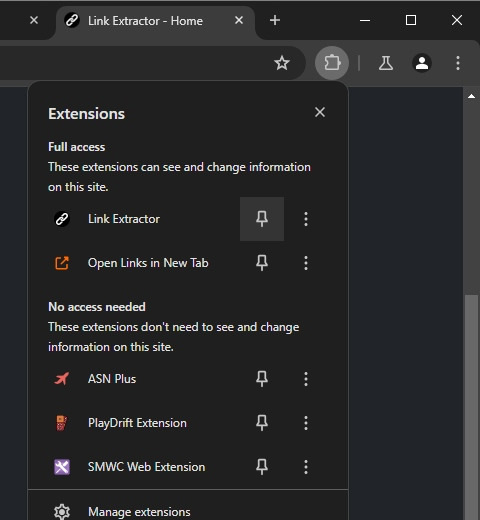
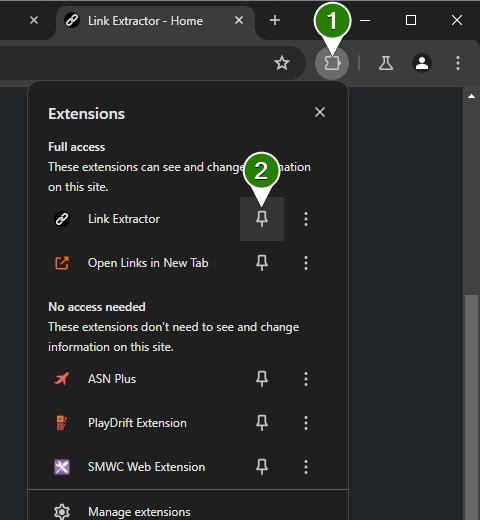
Add Discord Links (#21)
* Add Discord Links

* Add Flex Footer

* Mix Wording

* Update README.md

* Update Pin Images

diff --git a/src/_layouts/default.html b/src/_layouts/default.html
@@ -59,6 +59,8 @@
                             Screen Shots <i class="fa-solid fa-arrow-up-right-from-square"></i></a></li>
                     <li class="nav-item"><a class="nav-link" href="{{ site.github_url }}" target="_blank" rel="noopener">
                             GitHub <i class="fa-solid fa-arrow-up-right-from-square"></i></a></li>
+                    <li class="nav-item"><a class="nav-link" href="{{ site.discord_invite }}" target="_blank" rel="noopener">
+                            Discord <i class="fa-solid fa-arrow-up-right-from-square"></i></a></li>
                 </ul>
             </div>
         </div>
@@ -72,25 +74,30 @@
 
 <footer class="footer mt-auto px-1 flex-shrink-0">
     <div class="container-fluid">
-        <div class="row">
-            <div class="col-12 col-sm-5 py-2">
+        <div class="d-flex flex-column flex-sm-row py-2">
+            <div class="me-sm-auto">
                 <a class="link-body-emphasis text-decoration-none" href="{{ site.github_url }}" target="_blank" rel="noopener">
                     <i class="fab fa-github"></i> {{ site.site_name }}</a>
             </div>
-            <div class="col-12 col-sm-7 py-2 text-sm-end">
+            <div class="ms-sm-auto">
                 <nav aria-label="Secondary Navigation">
                     <ol class="list-inline mb-1">
                         <li class="list-inline-item">
                             <a class="link-body-emphasis text-decoration-none {% if page.title == 'Home' %}fw-bold{% endif %}" href="{{ "/" | relative_url }}">
-                                Home</a></li>
-                        {% comment %}<li class="list-inline-item">|</li>{% endcomment %}
+                                Home</a>
+                        </li>
                         <li class="list-inline-item">
                             <a class="link-body-emphasis text-decoration-none {% if page.title == 'Docs' %}fw-bold{% endif %}" href="{{ "/docs/" | relative_url }}">
-                                Docs</a></li>
-                        {% comment %}<li class="list-inline-item">|</li>{% endcomment %}
+                                Docs</a>
+                        </li>
                         <li class="list-inline-item">
                             <a class="link-body-emphasis text-decoration-none" href="{{ "/screenshots/" | relative_url }}" target="_blank">
-                                Screen Shots <i class="fa-solid fa-arrow-up-right-from-square"></i></a></li>
+                                Screen Shots <i class="fa-solid fa-arrow-up-right-from-square"></i></a>
+                        </li>
+                        <li class="list-inline-item">
+                            <a class="link-body-emphasis text-decoration-none" href="{{ site.discord_invite }}" target="_blank">
+                                Discord <i class="fa-solid fa-arrow-up-right-from-square"></i></a>
+                        </li>
                     </ol>
                 </nav>
             </div>

diff --git a/src/html/docs.html b/src/html/docs.html
@@ -11,9 +11,12 @@ description: Documentation and Instructions for configuring and using Link Extra
 
 <div id="feedback" class="alert alert-success d-none" role="alert">
     <p>Thank you for providing feedback. If you provided details we will look into them.</p>
-    <p class="mb-0">
+    <p>
         If you would like feedback from the developer you can open an
         <a href="{{ site.github_url }}/issues" class="alert-link" target="_blank" rel="noopener">Issue</a> on GitHub.
+    </p>
+    <p class="mb-0">
+        You may also request support and get help on the <a href="{{ site.discord_invite }}" class="alert-link" target="_blank" rel="noopener">Discord Server</a>.
     </p>
 </div>
 
@@ -30,8 +33,8 @@ description: Documentation and Instructions for configuring and using Link Extra
 </ul>
 
 <div class="mb-3">
-    <img src="{{ "/media/images/chrome-pin.jpg" | relative_url }}" class="img-thumbnail" alt="Chrome Pin Extension" width="360">
     <img src="{{ "/media/images/firefox-pin.jpg" | relative_url }}" class="img-thumbnail" alt="Chrome Pin Extension" width="360">
+    <img src="{{ "/media/images/chrome-pin.jpg" | relative_url }}" class="img-thumbnail" alt="Chrome Pin Extension" width="360">
 </div>
 
 <h4>Host Permissions</h4>
@@ -182,7 +185,7 @@ description: Documentation and Instructions for configuring and using Link Extra
 </p>
 
 <p class="mt-5">
-    For more information you can view
+    For more information you can view the
     <a href="{{ site.github_url }}?tab=readme-ov-file#readme" target="_blank" rel="noopener">README.md</a> on GitHub.
 </p>
 

diff --git a/src/html/uninstall.html b/src/html/uninstall.html
@@ -17,8 +17,13 @@ description: Uninstall Feedback.
                 </div>
                 <p class="text-center">
                     Please let us know why you uninstalled {{ site.site_name }}.
-                    All <a href="{{ site.github_url }}/issues" target="_blank" rel="noopener">bugs that get reported</a> will be fixed!
-                    <a href="{{ site.github_url }}/discussions/categories/feature-requests" target="_blank" rel="noopener">Feature Requests</a> are also greatly appreciated...
+                    <br>
+                    <span class="fs-4">
+                        All <a href="{{ site.github_url }}/issues" target="_blank" rel="noopener">bugs that get reported</a> <b>will be fixed!</b>
+                    </span>
+                    <br>
+                    Any <a href="{{ site.github_url }}/discussions/categories/feature-requests" target="_blank" rel="noopener">Feature Requests</a> are appreciated.
+                    Support is also available on <a href="{{ site.discord_invite }}" target="_blank" rel="noopener">Discord</a>.
                 </p>
                 {% include alerts.html %}
                 <form id="uninstall-form">

diff --git a/src/html/index.html b/src/html/index.html
@@ -22,6 +22,8 @@ description: Easily extract, parse, or open all links/domains from a site or tex
         <img src="https://img.shields.io/amo/v/{{ site.firefox_id }}?label=firefox&logo=firefox" alt="Mozilla Add-on Version" style="max-width: 100%;"></a>
     <a href="{{ site.github_url }}/releases/latest" title="GitHub" target="_blank" rel="noopener">
         <img src="https://img.shields.io/github/v/release/{{ site.github_name }}?logo=github" alt="GitHub Release Version" style="max-width: 100%;"></a>
+    <a href="{{ site.discord_invite }}" title="GitHub" target="_blank" rel="noopener">
+        <img src="https://img.shields.io/discord/899171661457293343?logo=discord&logoColor=white&label=discord&color=7289da" alt="Join Discord" style="max-width: 100%;"></a>
 </div>
 
 <p class="lead">

diff --git a/README.md b/README.md
@@ -6,28 +6,29 @@
 [![Mozilla Add-on Version](https://img.shields.io/amo/v/link-extractor?label=firefox&logo=firefox)](https://addons.mozilla.org/addon/link-extractor)
 [![GitHub Release Version](https://img.shields.io/github/v/release/cssnr/link-extractor?logo=github)](https://github.com/cssnr/link-extractor/releases/latest)
 [![Pages](https://github.com/cssnr/link-extractor.cssnr.com/actions/workflows/build.yaml/badge.svg)](https://github.com/cssnr/link-extractor.cssnr.com/actions/workflows/build.yaml)
+[![Discord](https://img.shields.io/discord/899171661457293343?logo=discord&logoColor=white&label=discord&color=7289da)](https://discord.gg/wXy6m2X8wY)
 # Link Extractor Site
 
-*   Website: https://link-extractor.cssnr.com
-*   Github: https://github.com/cssnr/link-extractor
+* Website: https://link-extractor.cssnr.com
+* Github: https://github.com/cssnr/link-extractor
+* Discord: https://discord.gg/wXy6m2X8wY
 
 # Install
 
 *   [Google Chrome Web Store](https://chrome.google.com/webstore/detail/link-extractor/ifefifghpkllfibejafbakmflidjcjfp)
 *   [Mozilla Firefox Add-ons](https://addons.mozilla.org/addon/link-extractor)
 
-<a href="https://chrome.google.com/webstore/detail/link-extractor/ifefifghpkllfibejafbakmflidjcjfp" target="_blank">
-    <img alt="Chrome" src="https://raw.githubusercontent.com/raivo-otp/issuer-icons/master/vectors/google.com/google-chrome.svg" width="42" height="42" /></a>
-<a href="https://addons.mozilla.org/addon/link-extractor" target="_blank">
-    <img alt="Firefox" src="https://raw.githubusercontent.com/raivo-otp/issuer-icons/master/vectors/firefox.com/firefox.svg" width="42" height="42" /></a>
-<a href="https://chrome.google.com/webstore/detail/link-extractor/ifefifghpkllfibejafbakmflidjcjfp" target="_blank">
-    <img alt="Edge" src="https://raw.githubusercontent.com/raivo-otp/issuer-icons/master/vectors/microsoft.com/microsoft-edge.svg" width="42" height="42" /></a>
-<a href="https://chrome.google.com/webstore/detail/link-extractor/ifefifghpkllfibejafbakmflidjcjfp" target="_blank">
-    <img alt="Opera" src="https://raw.githubusercontent.com/raivo-otp/issuer-icons/master/vectors/opera.com/opera.svg" width="42" height="42" /></a>
-<a href="https://chrome.google.com/webstore/detail/link-extractor/ifefifghpkllfibejafbakmflidjcjfp" target="_blank">
-    <img alt="Brave" src="https://raw.githubusercontent.com/raivo-otp/issuer-icons/master/vectors/brave.com/brave.svg" width="42" height="42" /></a>
-<a href="https://chrome.google.com/webstore/detail/link-extractor/ifefifghpkllfibejafbakmflidjcjfp" target="_blank">
-    <img alt="Vivaldi" src="https://raw.githubusercontent.com/raivo-otp/issuer-icons/master/vectors/vivaldi.com/vivaldi.svg" width="42" height="42" /></a>
+[![Chrome](https://raw.githubusercontent.com/smashedr/logo-icons/master/browsers/chrome_48.png)](https://chromewebstore.google.com/detail/link-extractor/ifefifghpkllfibejafbakmflidjcjfp)
+[![Firefox](https://raw.githubusercontent.com/smashedr/logo-icons/master/browsers/firefox_48.png)](https://addons.mozilla.org/addon/link-extractor)
+[![Edge](https://raw.githubusercontent.com/smashedr/logo-icons/master/browsers/edge_48.png)](https://chromewebstore.google.com/detail/link-extractor/ifefifghpkllfibejafbakmflidjcjfp)
+[![Brave](https://raw.githubusercontent.com/smashedr/logo-icons/master/browsers/brave_48.png)](https://chromewebstore.google.com/detail/link-extractor/ifefifghpkllfibejafbakmflidjcjfp)
+[![Opera](https://raw.githubusercontent.com/smashedr/logo-icons/master/browsers/opera_48.png)](https://chromewebstore.google.com/detail/link-extractor/ifefifghpkllfibejafbakmflidjcjfp)
+[![Chromium](https://raw.githubusercontent.com/smashedr/logo-icons/master/browsers/chromium_48.png)](https://chromewebstore.google.com/detail/link-extractor/ifefifghpkllfibejafbakmflidjcjfp)
+[![Yandex](https://raw.githubusercontent.com/smashedr/logo-icons/master/browsers/yandex_48.png)](https://chromewebstore.google.com/detail/link-extractor/ifefifghpkllfibejafbakmflidjcjfp)
   
 All **Chromium** Based Browsers can install the extension from the
 [Chrome Web Store](https://chrome.google.com/webstore/detail/link-extractor/ifefifghpkllfibejafbakmflidjcjfp).
+
+Mobile browser support available for
+[Firefox](https://addons.mozilla.org/addon/link-extractor) and
+[Yandex](https://chromewebstore.google.com/detail/link-extractor/ifefifghpkllfibejafbakmflidjcjfp).
